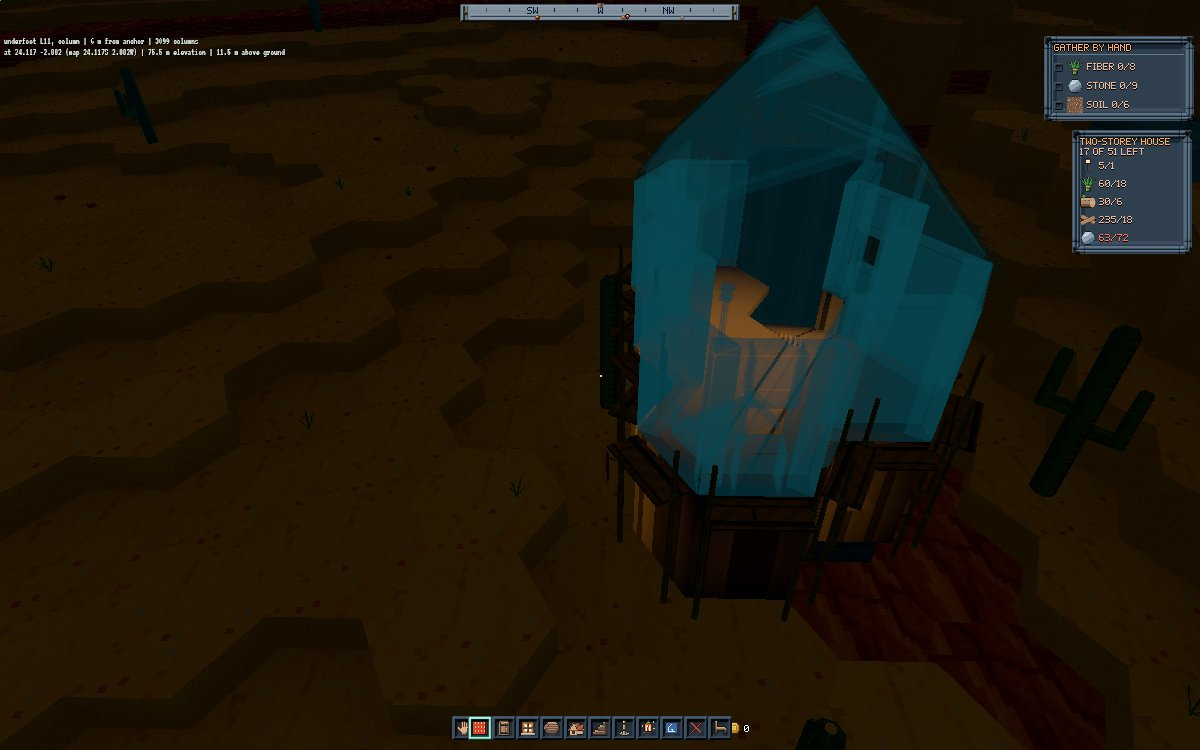
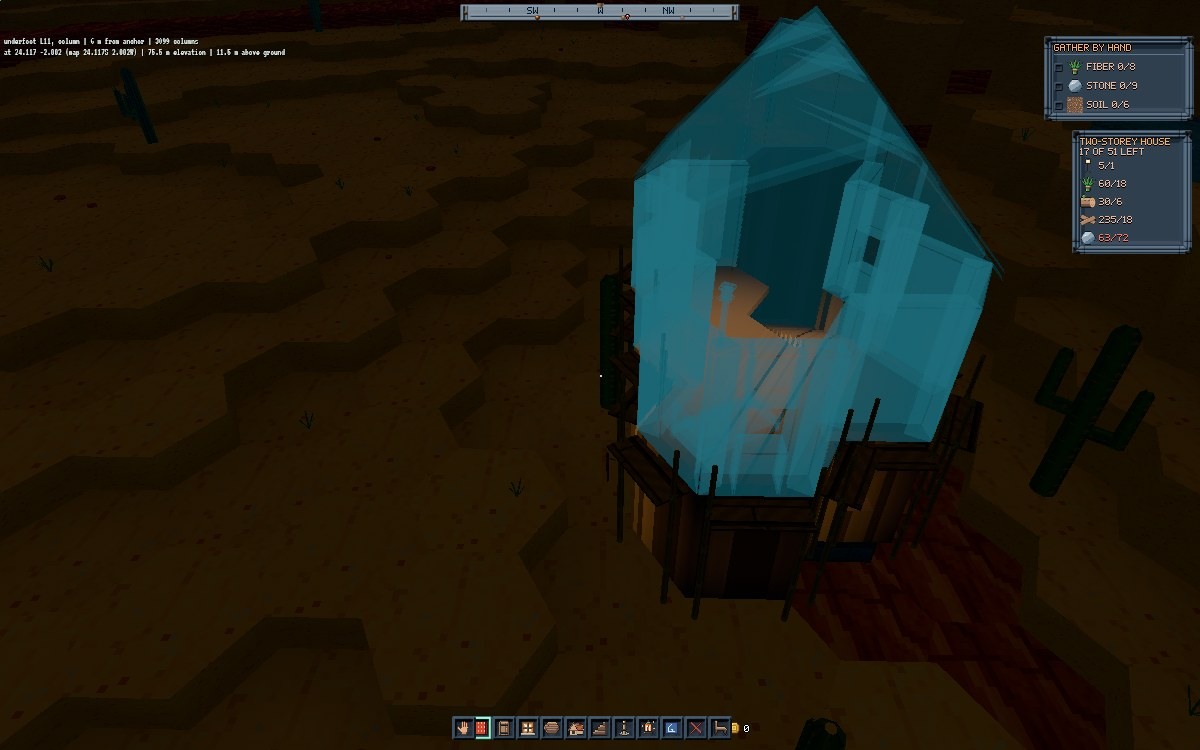
building-planner: the ghost at 0.12 at night, judged in captures; the ladder bay ticked
Survey P3: 0.2 made the ghost the brightest thing in the 22:00 frame, so
0.12 is taken (both kept: game-site-night.jpg, game-site-night-0.2.jpg).
The scaffold capture is retaken with the ladder bay (lavapipe, the look
only); the first cut's note in tasks.md names the ladder's tests.

Claude-Session: https://claude.ai/code/session_01RGPQut43HZDbTofZKV6sxg

Changed region(s): [[0.5242, 0.0, 0.8325, 0.6747], [0.37, 0.9507, 0.4008, 0.9813]]

diff --git a/docs/screenshots/building-planner/GAME.md b/docs/screenshots/building-planner/GAME.md
@@ -20,10 +20,11 @@ debug readout at the top left is the capture's developer overlay.
 | `game-drafting-table.jpg` | The drafting table set down: the workbench's timber block with a drawing board tipped to the front and a linen sheet on it. |
 | `game-site-before.jpg`, `game-site-set-out.jpg`, `game-site-before-after.jpg` | The ground ahead before and after the cottage is set out (BEFORE \| AFTER in one frame): the whole ghost in the blueprint tint, the lime line in the outer cells' tops and the survey stakes at the corners. |
 | `game-site-half.jpg` | The cottage half built from the pack (retaken 2026-11-24): the ground floor's walls stand in timber, the roof still a ghost; the HUD names the site, counts what is left and the goods still needed. The cactus that stood inside it in the first take now refuses the site there, so the capture sets it out on the nearest clear cell; the cactus stands outside the wall. |
-| `game-site-scaffold.jpg` | The two-storey house struck lowest first to 34 pieces: the ground storey's fieldstone walls all stand, and scaffolding rings the upper storey (timber poles, plank walks, rope at the crossings, lit like the ground), its walls and roof still ghosts. Replaces `game-site-upper.jpg`, which had none. |
+| `game-site-scaffold.jpg` | The two-storey house struck lowest first to 34 pieces: the ground storey's fieldstone walls all stand, and scaffolding rings the upper storey (timber poles, plank walks, rope at the crossings, lit like the ground), its walls and roof still ghosts. Replaces `game-site-upper.jpg`, which had none. Retaken 2026-11-24 with the ladder bay (design, "The scaffold's ladder bay"): its treads rise off the first bay on the left, half behind the cactus; from this height it reads poorly, and a closer shot is still owed. |
 | `game-site-change.jpg` | The cottage's plan changed after building: a cell dropped, its built pieces washed in chalk to take down. |
 | `game-planner-change.jpg` | The planner open over the half-built cottage with a cell taken out, before Save change: "Changing Cottage", then the change: 2 pieces added, 7 pieces removed, 31 planks back. |
-| `game-site-night.jpg` | The two-storey house at 22:00 with its scaffolding: the built walls and the scaffold as dark as the ground; the ghost dimmed with the sun (`ghost_night` 0.05) where it was the brightest thing in the first take. |
+| `game-site-night.jpg` | The two-storey house at 22:00 with its scaffolding: the built walls and the scaffold as dark as the ground; the ghost glowing at `ghost_night` 0.12 (survey P3, 2026-11-24: "The night is too faint, please make it glow a bit more at night"; it was 0.05). |
+| `game-site-night-0.2.jpg` | The same at `ghost_night` 0.2, the first try for P3: the ghost the brightest thing in the frame. Kept beside the chosen 0.12. |
 
 What was wrong in the first take, and what was done (design, "The
 captures' faults, found and fixed"):

diff --git a/openspec/changes/building-planner/design.md b/openspec/changes/building-planner/design.md
@@ -496,10 +496,13 @@ in `docs/screenshots/building-planner/`.
 ### The owner's answers on the captures (survey P3, P4, 2026-11-24)
 
 - **P3, the ghost at night.** The owner: "The night is too faint, please
-  make it glow a bit more at night". `ghost_night` goes from 0.05 to 0.2:
-  the ghost reads as a faint blueprint glow at 22:00, not as dark as the
-  ground and not the brightest thing in the frame. Retaken in
-  `game-site-night.jpg`.
+  make it glow a bit more at night". `ghost_night` goes from 0.05 to
+  0.12. Judged in 22:00 captures: at 0.2 (the first try) the ghost is the
+  brightest thing in the frame by far, its walls a flat bright cyan
+  (`game-site-night-0.2.jpg`, kept beside it); at 0.12 it is a little
+  softer and still glows plainly over the dark ground. Retaken in
+  `game-site-night.jpg`. Still bright on lavapipe: the owner judges it on
+  the desktop, and the number is one line of `building_planner.ron`.
 - **P4, the lime line.** The stronger line is kept as it is.
 
 ### The scaffold's ladder bay (2026-11-24, task 3.5's note)

diff --git a/openspec/changes/building-planner/tasks.md b/openspec/changes/building-planner/tasks.md
@@ -91,8 +91,9 @@ for it to be built.
 
 As built (2026-11-24): see design, "As built". Left out of 3.x and said
 there: the mallet is carried in the pack (no held swing yet); the
-scaffold has no ladder bay, so an upper storey is reached by the house's
-own stair; a road cell or a town's footprint is not yet "in the way" (a
+scaffold's ladder bay came after (design, "The scaffold's ladder bay",
+2026-11-24: `the_scaffold_is_climbed_by_its_ladder_bay`,
+`walking::tests::a_walker_climbs_the_scaffolds_ladder_bay_onto_its_boards`); a road cell or a town's footprint is not yet "in the way" (a
 solid block, a standing tree, a cactus and a wild plant are); a dropped piece taken down with a
 full pack is refused rather than left in a crate; the turnable 3D preview
 waits for the build camera.
